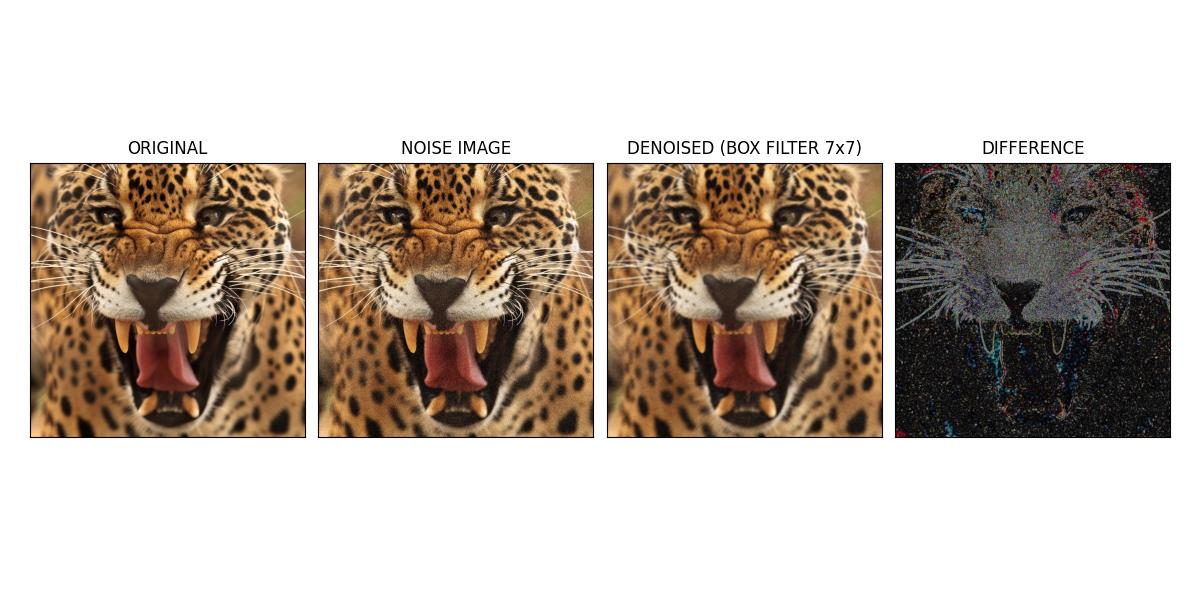
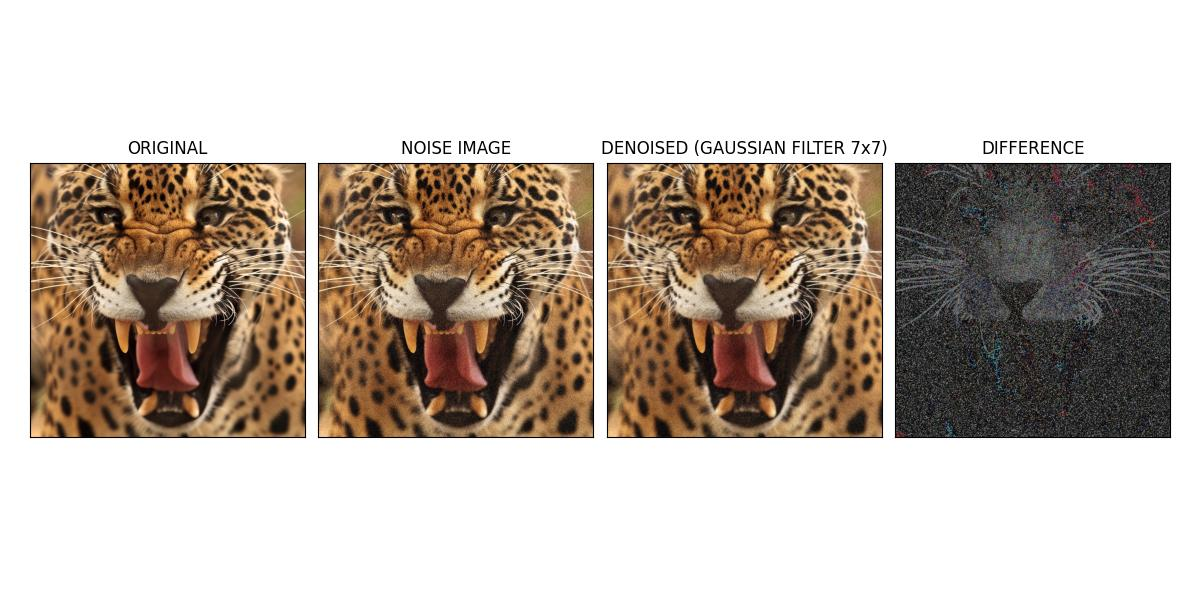
Added median filter implementation

Changed region(s): [[0.74, 0.27, 0.9867, 0.75], [0.4933, 0.21, 0.74, 0.27]]

diff --git a/lab-04/denoising.py b/lab-04/denoising.py
@@ -34,6 +34,20 @@ def gaussian(size: int, sigma: float = 1) -> np.ndarray:
     return kernel / np.sum(kernel)
 
 
+def median(image: np.ndarray, size: int) -> np.ndarray:
+    height, width = image.shape[0:2]
+    radius = size // 2
+    padded = np.pad(image, pad_width=((radius, radius), (radius, radius), (0, 0)), mode='edge')
+    denoised = np.zeros_like(image)
+
+    for y in range(height):
+        for x in range(width):
+            for c in range(3):
+                denoised[y, x, c] = np.median(padded[y:y + radius, x:x + radius, c].flatten())
+
+    return denoised
+
+
 def convolution2d(image: np.ndarray, kernel: np.ndarray) -> np.ndarray:
     height, width = image.shape[0:2]
     ks = kernel.shape[0] // 2
@@ -48,7 +62,7 @@ def convolution2d(image: np.ndarray, kernel: np.ndarray) -> np.ndarray:
     return convolved
 
 
-FILTERS = {
+KERNELS = {
     'box': box,
     'gaussian': gaussian
 }
@@ -56,8 +70,7 @@ FILTERS = {
 
 @benchmark
 def denoise(image: np.ndarray, size: int, f: str = "") -> np.ndarray:
-    if f:
-        return convolution2d(image, FILTERS[f](size))
+    return convolution2d(image, KERNELS[f](size)) if f else median(image, size)
 
 
 def calculate_mse_and_mae(original: np.ndarray, restored: np.ndarray) -> tuple[np.float64, np.float64]:
@@ -163,6 +176,7 @@ def main() -> None:
     axs[3].set_xticks([])
     axs[3].set_yticks([])
 
+    plt.subplots_adjust(0.025, 0, 0.975, 1, hspace=0.01, wspace=0.05)
     plt.savefig('./assets/summary.jpg') if args.save else None
     plt.show()
 
